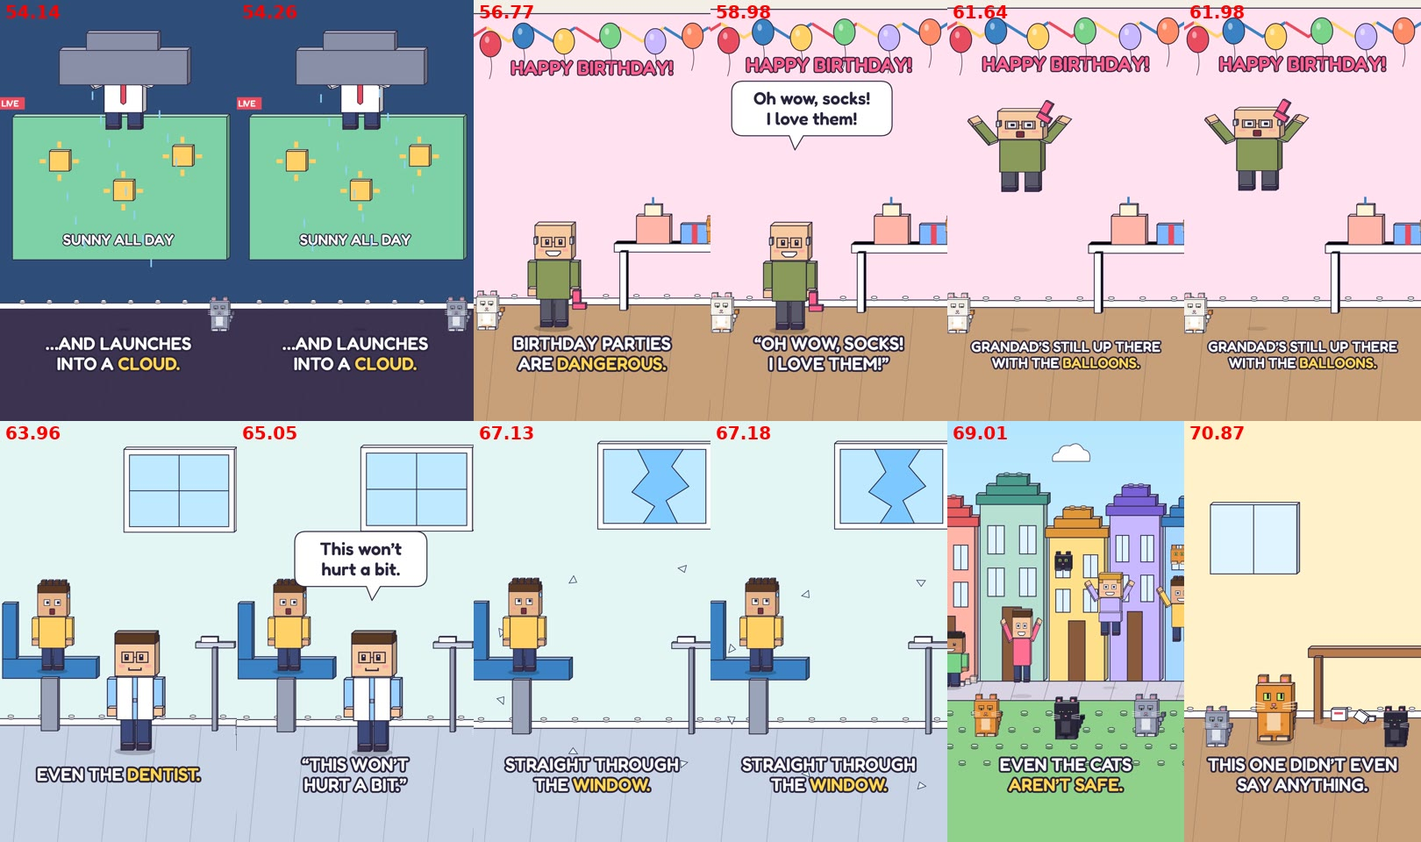
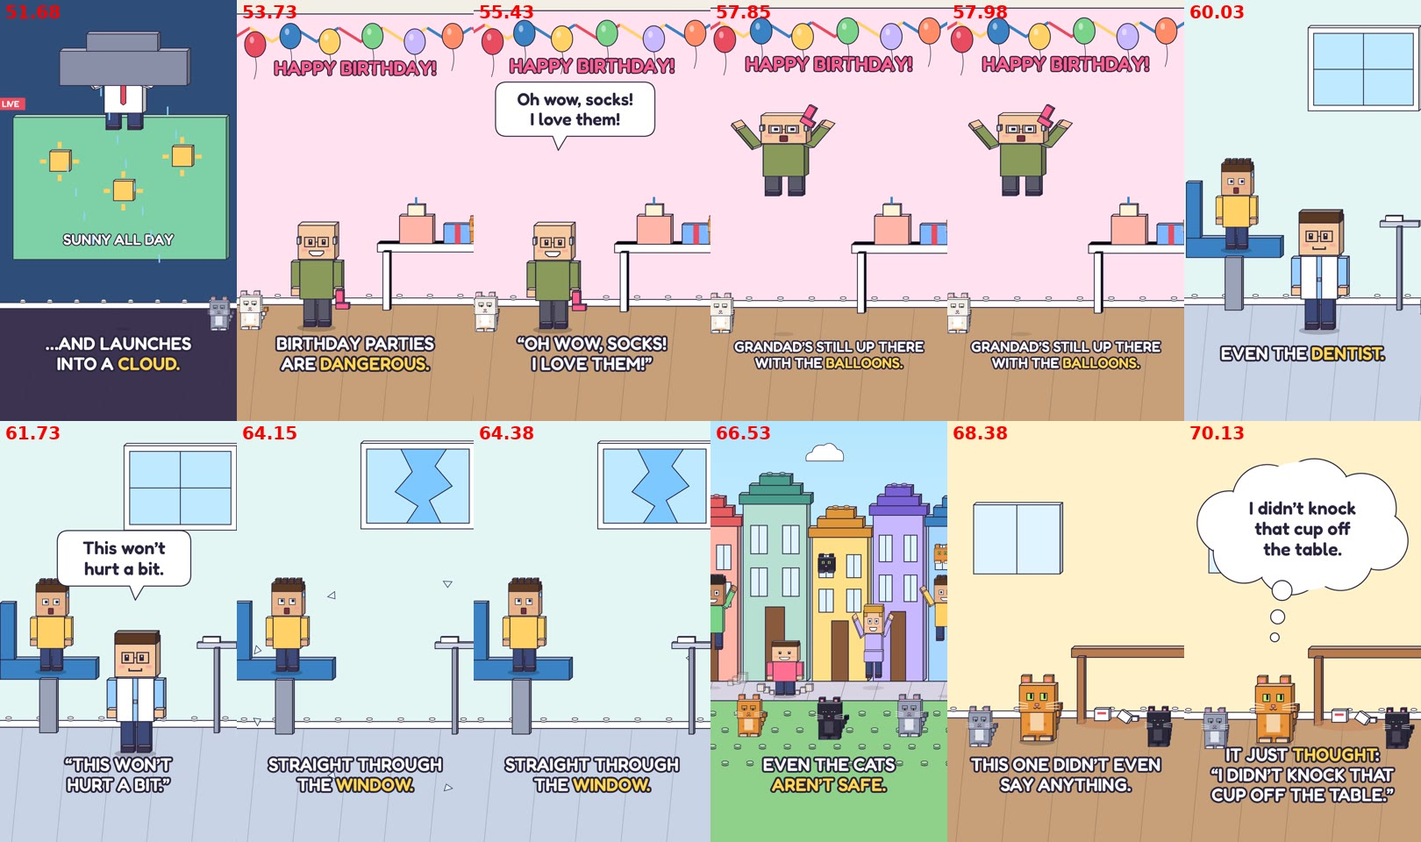
In This Town: funny v4 WIP - thought-lie and extra beats (scenes, timing, script lines)
Claude-Session: https://claude.ai/code/session_015gir5CL569tRAx8n1WvfLa

diff --git a/media/in-this-town/ep-jump-when-lie/funny/body3.js b/media/in-this-town/ep-jump-when-lie/funny/body3.js
@@ -1,0 +1,266 @@
+// v4 beats: thought-lies (T1–T8) and more lies (M1–M8)
+Object.assign(CAPS, {
+  n39: 'AND IT’S NOT|JUST CATS.', n40: 'EVEN YOUR <tspan fill="#ffd54d">THOUGHTS</tspan>|CAN GET YOU.', n41: 'AT THE GYM.|HE THINKS:', n42: '“I’LL DEFINITELY COME|BACK TOMORROW.”', n43: '<tspan fill="#ffd54d">DUMBBELL</tspan> AND ALL.',
+  n44: 'GROUP PHOTO. EVERYONE|SMILES AND THINKS:', n45: '“I LOOK GREAT|IN THIS ONE.”', n46: 'THE PHOTO IS|JUST <tspan fill="#ffd54d">FEET.</tspan>',
+  n47: 'THE BABY THINKS:', n48: '“I’M NOT THE ONE WHO|MADE THAT SMELL.”', n49: '<tspan fill="#ffd54d">NAPPY</tspan> AND ALL.',
+  n50: 'THE KID AT THE TABLE|THINKS:', n51: '“I’M NOT EVEN HUNGRY|FOR DESSERT.”', n52: 'FACE-FIRST|IN THE <tspan fill="#ffd54d">CAKE.</tspan>',
+  n53: 'THE TEACHER THINKS:', n54: '“I LOVE MY JOB|ON MONDAYS.”', n55: 'THROUGH THE|<tspan fill="#ffd54d">SCHOOL ROOF.</tspan>',
+  n56: 'THE DOG THINKS:', n57: '“I’M A GOOD BOY.”', n58: '…NO JUMP.|HE REALLY <tspan fill="#ffd54d">IS.</tspan>',
+  n59: 'AND ME? I THOUGHT:', n60: '“THIS TOWN IS|TOTALLY <tspan fill="#ffd54d">NORMAL.</tspan>”',
+  n61: 'THE SUPERMARKET.', n62: '“JUST LOOKING,|THANKS.”', n63: 'STRAIGHT INTO THE|<tspan fill="#ffd54d">CEREAL AISLE.</tspan>',
+  n64: 'THE BARBER HOLDS|UP THE MIRROR.', n65: '“PERFECT,|THANK YOU!”', n66: '<tspan fill="#ffd54d">HAIR</tspan> AND ALL.',
+  n67: 'ONLINE SHOPPING.', n68: '“THIS WILL|DEFINITELY FIT.”', n69: 'THE <tspan fill="#ffd54d">PARCEL</tspan>|JUMPS TOO.',
+  n70: 'A FOOTBALL MATCH.|THE PLAYER FALLS OVER:', n71: '“HE TOUCHED ME!”', n72: 'THE <tspan fill="#ffd54d">REFEREE</tspan>|JUMPS TOO:', n73: '“I SAW EVERYTHING.”',
+  n74: 'SLEEPOVER.', n75: '“I’M NOT SCARED|AT ALL.”', n76: 'CEILING. <tspan fill="#ffd54d">AGAIN.</tspan>',
+  n77: 'THE ANNUAL|<tspan fill="#ffd54d">TRUTH DAY</tspan> PARADE…', n78: '…IS A|<tspan fill="#ffd54d">TRAMPOLINE SHOW.</tspan>',
+  n79: 'THE SIGN SAYS:|“QUIET PLEASE.”', n80: 'THE LIBRARIAN THINKS:|“NOBODY BORROWS|THE FUN BOOKS.”', n81: 'NOTHING HAPPENS.', n82: 'THE KITTY THINKS:|“I’M NOT GOING TO|KNOCK THESE OFF.”', n83: '<tspan fill="#ffd54d">BOOKS</tspan> EVERYWHERE.',
+  n84: 'GRANDAD AT|THE BARBECUE:', n85: '“IT’S NOT BURNT,|IT’S CRISPY.”', n86: '<tspan fill="#ffd54d">SAUSAGE</tspan> AND ALL.',
+});
+// thought bubble: puffy cloud + little bubbles down to the thinker's head
+function THINK(cx, cy, txt, t, ta, hx, hy, size = 54) {
+  if (t < ta) return '';
+  const k = pop(t, ta, 0.2), lines = txt.split('|'), w = Math.max(...lines.map((l) => l.length)) * size * 0.3 + 70, h = lines.length * size * 0.62 + 50;
+  let g = `<g transform="translate(${cx},${cy}) scale(${n(k)})">`;
+  const P = []; for (let i = 0; i < 10; i++) { const a = (i / 10) * 2 * PI; P.push([Math.cos(a) * w, Math.sin(a) * h, Math.min(w, h) * 0.62]); }
+  for (const [x, y, r] of P) g += `<circle cx="${n(x)}" cy="${n(y)}" r="${n(r)}" fill="#fff" stroke="${OUT}" stroke-width="${LW}"/>`;
+  for (const [x, y, r] of P) g += `<circle cx="${n(x)}" cy="${n(y)}" r="${n(r - 4)}" fill="#fff"/>`;
+  g += `<ellipse cx="0" cy="0" rx="${n(w + 10)}" ry="${n(h + 10)}" fill="#fff"/>`;
+  lines.forEach((l, i) => { g += T(0, (i - (lines.length - 1) / 2) * size * 1.12 + size * 0.35, l, size, OUT, { flat: 1 }); });
+  g += `</g>`;
+  for (let i = 1; i <= 3; i++) { const u = i / 4, x = lerp(cx, hx, 0.35 + u * 0.6), y = lerp(cy + h * 0.9, hy, 0.35 + u * 0.6); g += `<circle cx="${n(x)}" cy="${n(y)}" r="${n((28 - i * 6) * k)}" fill="#fff" stroke="${OUT}" stroke-width="${LW}"/>`; }
+  return g;
+}
+const inT = (t, a, b) => t > a && t < b;
+const BOOK = (x, y, c, h = 70) => BLK(x, y - h, x + 24, y, c, 6);
+Object.assign(SC, {
+  thoughts(t) {
+    let g = STREET(t);
+    [200, 880].forEach((x, i) => { g += PERSON(x, GROUND + 20, 0.62, Object.assign({ mouth: 'worry', look: [0, -0.8], ph: i }, TOWN[i]), t); });
+    g += CAT(540, GROUND + 200, 1.0, t, MEH({ c: 'orange' }));
+    g += THINK(540, 640, '?!', t, s_('n40') + 0.3, 540, 1000, 120);
+    return g;
+  },
+  gym(t) {
+    let g = ROOM(t, '#e8ecf5', '#5a5a6a');
+    g += BLK(100, 420, 600, 540, '#e94b5f', 10) + T(350, 500, 'GYM', 72, '#fff', { flat: 1 });
+    g += BLK(700, 900, 1000, 960, '#3b3350', 10) + BLK(720, 960, 740, GROUND, '#888', 6) + BLK(960, 960, 980, GROUND, '#888', 6);
+    const j = jumpState('gym', t);
+    g += PERSON(450, GROUND + 70, 1.1, { j, shirt: '#ffd166', pants: '#3b82c4', hair: 'short', hairC: '#3a2a1a', skin: '#e8b48a', mouth: j.air ? 'o' : 'smile', wide: j.air, sweat: 1, look: [0.4, -0.3] }, t);
+    // the dumbbell goes up with him
+    const dy = j.dy * 1.1, x0 = 450 + (j.air ? 125 : 85), y0 = GROUND + 70 - dy - (j.air ? 330 : 120) * 1.1;
+    g += BLK(x0 - 50, y0 - 10, x0 + 50, y0 + 10, '#888', 6) + BLK(x0 - 70, y0 - 34, x0 - 44, y0 + 34, '#3b3350', 8) + BLK(x0 + 44, y0 - 34, x0 + 70, y0 + 34, '#3b3350', 8);
+    g += DUST(450, GROUND + 70, t, j.land, 1.1) + CAT(880, 900, 0.5, t, MEH({ c: 'grey', look: [-0.8, j.air ? -1 : 0] }));
+    if (t < JJ('gym').t0 + 0.05) g += THINK(560, 560, 'I’ll definitely come|back tomorrow.', t, s_('n42') - 0.05, 470, 880);
+    return g;
+  },
+  photo(t) {
+    if (t > s_('n46') - 0.05) {
+      // the photo: just feet at the top edge
+      let g = ROOM(t, '#2b2540', '#2b2540');
+      const k = pop(t, s_('n46') - 0.05, 0.2);
+      g += `<g transform="translate(540,800) rotate(-4) scale(${n(k)})"><rect x="-380" y="-420" width="760" height="760" fill="#fff" stroke="${OUT}" stroke-width="5"/><rect x="-340" y="-380" width="680" height="560" fill="#bfe9ff"/>`;
+      g += `<rect x="-340" y="80" width="680" height="100" fill="#8fd18b"/>`;
+      for (const x of [-220, 0, 220]) g += BLK(x - 50, -380, x - 10, -330, '#3b3350', 6) + BLK(x + 10, -380, x + 50, -330, '#3b3350', 6);
+      g += CAT(180, 170, 0.5, t, MEH({ c: 'orange' })) + T(0, 300, 'Family 2026', 54, OUT, { flat: 1 }) + `</g>`;
+      return g;
+    }
+    let g = STREET(t);
+    g += BLK(520, 1300, 560, 1500, '#555', 6) + BLK(470, 1220, 610, 1300, '#3b3350', 10) + `<circle cx="540" cy="1260" r="26" fill="#7fb8ff" stroke="${OUT}" stroke-width="3"/>`;
+    ['p0', 'p1', 'p2'].forEach((k, i) => { g += JP(k, 300 + i * 240, GROUND + 20, 0.8, Object.assign({ mouth: 'grin', airMouth: 'o' }, TOWN[i + 1]), t); });
+    g += CAT(160, GROUND + 30, 0.5, t, MEH({ c: 'black' })) + CAT(930, GROUND + 30, 0.5, t, MEH({ c: 'grey' }));
+    if (t < JJ('p0').t0 + 0.05) g += THINK(540, 520, 'I look great|in this one.', t, s_('n45') - 0.05, 540, 820);
+    return g;
+  },
+  baby(t) {
+    let g = ROOM(t, '#fff1f8', '#c7a07a');
+    const j = jumpState('baby', t);
+    g += PERSON(540, 1180, 0.72, { j, shirt: '#ffffff', pants: '#ffffff', sleeve: '#f6c9a0', hair: 'bald', hairC: '#f6c9a0', mouth: j.air ? 'o' : 'smile', wide: j.air, look: [0, 0] }, t);
+    // crib bars in front
+    g += BLK(260, 1180, 820, 1220, '#ffd166', 12);
+    for (let x = 280; x <= 800; x += 74) g += BLK(x, 1040, x + 14, 1180, '#ffd166', 4);
+    g += BLK(260, 1020, 820, 1044, '#ffd166', 8) + BLK(260, 1220, 290, GROUND, '#ffd166', 6) + BLK(790, 1220, 820, GROUND, '#ffd166', 6);
+    for (let k = 0; k < 3; k++) { const a = (t * 0.8 + k / 3) % 1; g += `<path d="M ${n(640 + k * 30)} ${n(1150 - a * 200)} q 12 -20 0 -40 q -12 -20 0 -40" stroke="#9bc53d" stroke-width="5" fill="none" opacity="${n(1 - a)}"/>`; }
+    g += CAT(150, GROUND + 70, 0.55, t, MEH({ c: 'calico', look: [0.8, 0] })) + CAT(940, GROUND + 70, 0.55, t, MEH({ c: 'white', look: [-0.8, j.air ? -1 : 0] }));
+    if (t < JJ('baby').t0 + 0.05) g += THINK(540, 560, 'I’m not the one who|made that smell.', t, s_('n48') - 0.05, 540, 880, 50);
+    return g;
+  },
+  dessert(t) {
+    const jd = JJ('dessert'), landed = t > jd.t0 + jd.dur;
+    let g = ROOM(t, '#ffe9c7', '#c7a07a');
+    g += TABLE(380, 1040, 1100, '#fff');
+    // the cake
+    g += BLK(660, 980, 900, 1100, '#ffb5a7', 12) + BLK(660, 960, 900, 990, '#fff', 12);
+    const j = jumpState('dessert', t), u = j.air ? cl((t - jd.t0) / jd.dur) : landed ? 1 : 0;
+    if (!landed) g += PERSON(lerp(330, 760, u), GROUND + 70 - u * 230, 1.0, { j, shirt: '#7fb8ff', hair: 'bowl', hairC: '#4a2f1c', mouth: j.air ? 'o' : 'smile', wide: j.air, look: [0.6, 0] }, t);
+    else {
+      // upside down, face in the cake, legs kicking
+      const kick = Math.sin(t * 14) * 6;
+      g += `<g transform="translate(780,${n(1000 + kick * 0.3)}) rotate(180)">` + PERSON(0, 400, 0.9, { shirt: '#7fb8ff', hair: 'bowl', hairC: '#4a2f1c' }, t) + `</g>`;
+      g += BLK(640, 960, 920, 1000, '#fff', 8);
+      for (let k = 0; k < 6; k++) { const a = t - jd.t0 - jd.dur; g += `<circle cx="${n(780 + Math.cos(k) * (60 + a * 200))}" cy="${n(960 - Math.sin(k + 1) * 40 - a * 80 + a * a * 300)}" r="12" fill="#fff" stroke="${OUT}" stroke-width="2"/>`; }
+    }
+    g += CAT(200, 1100, 0.5, t, MEH({ c: 'orange', look: [0.8, 0] }));
+    if (t < jd.t0 + 0.05) g += THINK(500, 560, 'I’m not even hungry|for dessert.', t, s_('n51') - 0.05, 380, 860, 50);
+    return g;
+  },
+  teacher2(t) {
+    const CEIL = 300, jt = JJ('teacher2'), gone = t > jt.t0 + 0.3;
+    let g = ROOM(t, '#fff1c9', '#d8a36f', { ceil: CEIL });
+    g += BLK(110, 500, 970, 820, '#2f5d50', 10) + T(540, 640, 'MONDAY', 90, '#fff', { flat: 1 }) + T(540, 740, '8:00 AM', 56, '#fff', { flat: 1 });
+    const j = jumpState('teacher2', t);
+    g += PERSON(540, GROUND + 60, 1.05, { j, shirt: '#e94b5f', dress: 1, hair: 'bun', hairC: '#5a3a22', glasses: 1, mouth: j.air ? 'o' : 'smile', wide: j.air, sweat: 1 }, t);
+    g += `<rect x="0" y="0" width="1080" height="${CEIL}" fill="#f4efe6" stroke="${OUT}" stroke-width="${LW}"/>`;
+    if (gone) g += `<path d="M 460 ${CEIL} L 480 ${CEIL - 70} L 520 ${CEIL - 40} L 560 ${CEIL - 90} L 600 ${CEIL - 50} L 630 ${CEIL} Z" fill="#7cc8ff"/>`;
+    g += CAT(200, GROUND + 60, 0.5, t, MEH({ c: 'black', look: [0.6, gone ? -1 : 0] }));
+    if (t < jt.t0 + 0.05) g += THINK(540, 560, 'I love my job|on Mondays.', t, s_('n54') - 0.05, 540, 870);
+    return g;
+  },
+  gooddog(t) {
+    let g = STREET(t);
+    g += DOG(540, GROUND + 160, 1.4, t, {});
+    const ann = t > s_('n58') - 0.1;
+    g += CAT(180, GROUND + 160, 0.6, t, { c: 'orange', meh: 1, brow: ann, look: [0.8, 0] }) + CAT(900, GROUND + 160, 0.6, t, { c: 'grey', meh: 1, look: [-0.8, 0] });
+    if (ann) for (let k = 0; k < 4; k++) { const a = (t * 0.7 + k / 4) % 1; g += `<g transform="translate(${n(560 + Math.sin(k * 2) * 120)},${n(1080 - a * 300)}) scale(${n(0.8 + a * 0.4)})" opacity="${n(1 - a)}">` + BLK(-14, -10, 0, 4, '#ff5f8f', 4) + BLK(0, -10, 14, 4, '#ff5f8f', 4) + BLK(-8, 4, 8, 14, '#ff5f8f', 4) + `</g>`; }
+    if (t < s_('n58') + 0.4) g += THINK(560, 640, 'I’m a good boy.', t, s_('n57') - 0.05, 640, 1000, 60);
+    if (ann) g += T(540, 640, 'NO BOING.', 90, '#7bd389', { sw: 12 });
+    return g;
+  },
+  me(t) {
+    // the narrator launches; the camera follows him up
+    const jm = JJ('me'), j = jumpState('me', t), cam = Math.min(j.dy * 1.0, 2600);
+    let g = `<rect x="0" y="-4000" width="1080" height="6000" fill="#7cc8ff"/>`;
+    g += `<g transform="translate(0,${n(cam)})">` + STREET(t);
+    g += CAT(250, GROUND + 140, 0.55, t, MEH({ c: 'orange', look: [0.3, -1] })) + CAT(820, GROUND + 140, 0.55, t, MEH({ c: 'black', look: [-0.3, -1] }));
+    for (const [x, y] of [[200, -300], [800, -900], [350, -1600], [850, -2200]]) g += `<g transform="translate(${x},${y})">` + BLK(-120, -40, 120, 30, '#ffffff', 16) + `</g>`;
+    g += PERSON(540, GROUND + 80, 1.1, Object.assign({}, ME, { j, mouth: j.air ? 'o' : 'smile', wide: j.air, look: [0, -0.2] }), t);
+    g += `</g>`;
+    if (t < jm.t0 + 0.05) g += THINK(540, 560, 'This town is|totally normal.', t, s_('n60') - 0.05, 540, 880);
+    return g;
+  },
+  market(t) {
+    const jk = JJ('market');
+    let g = ROOM(t, '#f2f7ff', '#d9d4e3');
+    g += BLK(120, 380, 520, 480, '#4cc38a', 10) + T(320, 450, 'CEREAL', 56, '#fff', { flat: 1 });
+    // shelves of cereal boxes
+    for (let r = 0; r < 3; r++) { g += BLK(600, 640 + r * 220, 1040, 660 + r * 220, '#9aa3b8', 8); for (let x = 610; x < 1020; x += 64) g += BLK(x, 520 + r * 220, x + 52, 640 + r * 220, ['#e94b5f', '#ffd166', '#3b82c4', '#7bd389'][(x / 64 + r) % 4 | 0], 6); }
+    const j = jumpState('market', t, 520);
+    const u = j.air ? cl((t - jk.t0) / 0.5) : 0, stuck = j.flat;
+    g += PERSON(lerp(380, 800, u), GROUND + 70, 1.05, { j, shirt: '#ff8c69', hair: 'curly', hairC: '#2f2a24', skin: '#c98d62', mouth: j.air ? 'o' : 'smile', wide: j.air, look: [-0.6, 0] }, t);
+    if (stuck) for (let k = 0; k < 5; k++) { const a = t - jk.t0 - 0.5; if (a > 0) g += `<g transform="translate(${n(700 + k * 60 + a * (k - 2) * 60)},${n(560 + a * a * 900 + a * 300)}) rotate(${n(a * 200 * (k - 2))})">` + BLK(-22, -30, 22, 30, ['#e94b5f', '#ffd166', '#3b82c4'][k % 3], 5) + `</g>`; }
+    g += PERSON(160, GROUND + 70, 0.95, { shirt: '#4cc38a', hair: 'short', hairC: '#7a4a2a', mouth: 'smile', look: [0.8, 0] }, t);
+    g += CAT(500, GROUND + 80, 0.5, t, MEH({ c: 'grey', look: [0.6, stuck ? -1 : 0] }));
+    if (t > s_('n62') - 0.05 && t < jk.t0 + 0.05) g += BUB(380, 600, 'Just looking,|thanks.', t, s_('n62') - 0.05, 0, 64);
+    return g;
+  },
+  barber(t) {
+    const jb = JJ('barber');
+    let g = ROOM(t, '#e8f7ff', '#ffffff');
+    for (let x = 0; x < 1080; x += 90) g += `<rect x="${x}" y="${GROUND - 20}" width="45" height="600" fill="#2b2540" opacity=".85"/>`;
+    g += BLK(560, 400, 960, 820, '#cfd6e6', 12) + `<rect x="580" y="420" width="360" height="380" fill="#dff4ff"/>`;
+    g += BLK(260, 1080, 600, 1140, '#e94b5f', 12) + BLK(260, 880, 300, 1080, '#e94b5f', 8) + BLK(400, 1140, 450, GROUND, '#888', 6);
+    const j = jumpState('barber', t);
+    g += PERSON(430, 1130, 0.9, { j, shirt: '#ffffff', hair: 'bald', hairC: '#f6c9a0', mouth: j.air ? 'o' : 'grin', wide: j.air, look: [0.4, 0] }, t);
+    // the haircut flies higher than him and lands late
+    const hy = 1130 - 0.9 * 380 - (j.air ? j.dy * 1.5 * 0.9 : 0);
+    g += BLK(380, hy - 30, 480, hy, '#ff5f8f', 8) + BLK(400, hy - 60, 420, hy - 30, '#ff5f8f', 5) + BLK(440, hy - 56, 460, hy - 30, '#ff5f8f', 5);
+    g += PERSON(760, GROUND + 80, 1.0, { shirt: '#3b3350', hair: 'spiky', hairC: '#2b2b2b', mouth: 'flat', look: [-0.6, 0] }, t);
+    g += BLK(820, 900, 900, 1000, '#cfd6e6', 6);
+    g += CAT(980, GROUND + 70, 0.5, t, MEH({ c: 'orange', look: [-0.6, j.air ? -1 : 0] }));
+    if (t > s_('n65') - 0.05 && t < jb.t0 + 0.05) g += BUB(420, 600, 'Perfect,|thank you!', t, s_('n65') - 0.05, 0, 64);
+    return g;
+  },
+  parcel(t) {
+    let g = ROOM(t, '#f5ecff', '#c7a07a');
+    const j = jumpState('online', t), jp = jumpState('box', t);
+    g += PERSON(380, GROUND + 70, 1.05, { j, shirt: '#7bd389', hair: 'short', hairC: '#3a2a1a', mouth: j.air ? 'o' : 'smile', wide: j.air, look: [0.8, 0.4] }, t);
+    // a tiny shirt in front of him
+    g += `<g transform="translate(380,${n(GROUND + 70 - j.dy * 1.05 - 200)})">` + BLK(-26, -20, 26, 30, '#ff5f8f', 5) + BLK(-40, -20, -26, 0, '#ff5f8f', 4) + BLK(26, -20, 40, 0, '#ff5f8f', 4) + `</g>`;
+    g += SHADOW(760, GROUND + 70, 0.9, jp.dy) + `<g transform="translate(760,${n(GROUND + 70 - jp.dy)}) scale(${n(jp.sx)},${n(jp.sy)})">` + BLK(-110, -150, 110, 0, '#c99a5b', 16) + `<rect x="-110" y="-90" width="220" height="24" fill="#e0c08a"/>` + T(0, -30, 'SIZE XS', 30, OUT, { flat: 1 }) + `</g>` + DUST(760, GROUND + 70, t, jp.land, 0.9);
+    g += CAT(960, GROUND + 70, 0.5, t, MEH({ c: 'black', look: [-0.8, jp.air ? -1 : 0] }));
+    if (t < JJ('online').t0 + 0.05) g += THINK(540, 560, 'This will|definitely fit.', t, s_('n68') - 0.05, 400, 870);
+    return g;
+  },
+  football(t) {
+    let g = SKY(t, '#9fd8ff', '#e9f8ff');
+    g += `<rect x="0" y="760" width="1080" height="1200" fill="#5fbf5f"/>`; for (let k = 0; k < 6; k++) g += `<rect x="0" y="${760 + k * 160}" width="1080" height="80" fill="#6fcf6f"/>`;
+    g += `<rect x="0" y="560" width="1080" height="200" fill="#d9d4e3"/>` + Array.from({ length: 12 }, (_, i) => `<rect x="${i * 92 + 10}" y="600" width="60" height="60" fill="${['#e94b5f', '#3b82c4', '#ffd166'][i % 3]}"/>`).join('');
+    // the player: lying down, then springs up
+    const jp = jumpState('player', t), down = t > s_('n70') + 0.6 && !jp.air && t < JJ('player').t0;
+    if (down) g += `<g transform="translate(440,${GROUND + 40}) rotate(-90)">` + PERSON(0, 0, 0.9, { shirt: '#e94b5f', hair: 'spiky', hairC: '#3a2a1a', mouth: 'worry', look: [0, -1] }, t) + `</g>`;
+    else g += PERSON(360, GROUND + 70, 0.95, { j: jp, shirt: '#e94b5f', hair: 'spiky', hairC: '#3a2a1a', mouth: jp.air ? 'o' : 'smile', wide: jp.air, look: [0.6, 0] }, t);
+    g += DUST(360, GROUND + 70, t, jp.land, 0.95);
+    const jr = jumpState('ref', t);
+    g += PERSON(780, GROUND + 70, 0.95, { j: jr, shirt: '#2b2540', stripes: '#ffffff', hair: 'short', hairC: '#888', mouth: jr.air ? 'o' : 'flat', wide: jr.air, look: [-0.6, 0] }, t) + DUST(780, GROUND + 70, t, jr.land, 0.95);
+    g += BLK(560, GROUND + 60, 620, GROUND + 120, '#ffffff', 8);
+    g += CAT(120, GROUND + 230, 0.55, t, MEH({ c: 'orange', look: [0.5, 0] })) + CAT(980, GROUND + 230, 0.55, t, MEH({ c: 'grey', look: [-0.5, 0] }));
+    if (t > s_('n71') - 0.05 && t < JJ('player').t0 + 0.05) g += BUB(380, 700, 'He touched me!', t, s_('n71') - 0.05, 0, 62);
+    if (t > s_('n73') - 0.05 && t < JJ('ref').t0 + 0.05) g += BUB(700, 700, 'I saw everything.', t, s_('n73') - 0.05, 80, 60);
+    return g;
+  },
+  sleepover(t) {
+    const CEIL = 300;
+    let g = ROOM(t, '#2f3a6a', '#4a3a6a', { ceil: CEIL });
+    g += `<rect x="0" y="0" width="1080" height="${CEIL}" fill="#3b4570" stroke="${OUT}" stroke-width="${LW}"/>`;
+    for (const x of [200, 380, 760, 880]) g += `<path d="M ${x} ${CEIL} l 20 -40 l 20 30 l 20 -40" stroke="#bbb" stroke-width="4" fill="none"/>`;
+    const j = jumpState('sleep', t, 560);
+    g += `<path d="M 540 ${GROUND - 40} L 900 520 L 1000 560 Z" fill="#fff6a8" opacity=".25"/>`;
+    g += PERSON(540, GROUND + 60, 1.0, { j, shirt: '#9ad0ff', stripes: '#fff', hair: 'bowl', hairC: '#4a2f1c', mouth: j.air ? 'o' : 'smile', wide: 1, sweat: 1, stars: j.flat }, t);
+    g += BLK(380, 1220, 700, GROUND + 60, '#7a62d6', 12);
+    g += CAT(220, GROUND + 60, 0.55, t, { c: 'black', meh: 1, look: [0.6, 0] }) + CAT(880, GROUND + 60, 0.55, t, { c: 'white', sleep: 1 });
+    if (t < JJ('sleep').t0 + 0.05) g += THINK(540, 600, 'I’m not scared|at all.', t, s_('n75') - 0.05, 540, 900);
+    return g;
+  },
+  parade(t) {
+    let g = STREET(t, { noWinCats: 0 });
+    g += `<path d="M 60 560 Q 540 640 1020 560" stroke="${OUT}" stroke-width="3" fill="none"/>` + BLK(240, 470, 840, 570, '#ff5f8f', 12) + T(540, 545, 'TRUTH DAY', 76, '#fff', { flat: 1 });
+    for (const [x, y, c] of [[110, 700, 'grey'], [760, 700, 'orange'], [980, 720, 'black']]) g += CAT(x, y, 0.45, t, MEH({ c, look: [0, 1] }));
+    for (let i = 0; i < 5; i++) {
+      const x = 110 + i * 215, ph = i * 0.37, c = (t * 1.6 + ph) % 1, dy = 4 * 380 * c * (1 - c);
+      g += BLK(x - 80, GROUND + 50, x + 80, GROUND + 70, '#3b82c4', 10);
+      g += PERSON(x, GROUND + 40, 0.58, Object.assign({ j: { dy, sx: 1, sy: 1 + 0.15 * Math.abs(1 - 2 * c), air: c > 0.08 && c < 0.92 }, mouth: 'grin', airMouth: 'grin' }, TOWN[i % 4]), t);
+    }
+    return g;
+  },
+  library(t) {
+    const jk = JJ('libcat'), fall = t > jk.t0;
+    let g = ROOM(t, '#f3e7d3', '#a5784f');
+    g += BLK(120, 400, 520, 500, '#2b2540', 10) + T(320, 468, 'QUIET PLEASE', 44, '#fff', { flat: 1 });
+    // bookshelf
+    g += BLK(620, 520, 1040, GROUND, '#8a5a3c', 14);
+    const cols = ['#e94b5f', '#3b82c4', '#ffd166', '#7bd389', '#c9b8ff'];
+    for (let r = 0; r < 3; r++) for (let x = 640; x < 1010; x += 30) { const c = cols[(x / 30 + r) % 5 | 0]; if (r === 0 && fall) continue; g += BOOK(x, 760 + r * 190, c); }
+    if (fall) for (let k = 0; k < 10; k++) { const a = t - jk.t0; g += `<g transform="translate(${n(660 + k * 36 + a * (k - 5) * 50)},${n(Math.min(GROUND + 40, 720 + a * a * 1400))}) rotate(${n(a * (k - 5) * 120)})">` + BOOK(-12, 35, cols[k % 5]) + `</g>`; }
+    // the kitty on the top shelf
+    const j = jumpState('libcat', t);
+    g += `<g transform="translate(830,${n(520 - j.dy)}) scale(${n(j.sx)},${n(j.sy)})">` + CAT(0, 0, 0.55, t, { c: 'orange', look: j.air ? [0, -1] : [-0.6, -0.4] }) + `</g>` + DUST(830, 520, t, j.land, 0.55);
+    g += PERSON(330, GROUND + 70, 1.05, { shirt: '#9b6a45', hair: 'bun', hairC: '#888', glasses: 1, mouth: 'flat', look: [0.6, -0.3] }, t);
+    g += CAT(130, GROUND + 70, 0.5, t, MEH({ c: 'grey', look: [0.8, fall ? -1 : 0] }));
+    if (inT(t, s_('n80') + 0.6, s_('n81') + 0.6)) g += THINK(450, 620, 'Nobody ever borrows|the fun books.', t, s_('n80') + 0.6, 330, 880, 48);
+    if (inT(t, s_('n81'), e_('n81') + 0.3)) g += T(330, 820, '…', 110, OUT, { flat: 1 });
+    if (inT(t, s_('n82') + 0.9, jk.t0 + 0.05)) g += THINK(560, 440, 'I’m not going to|knock these off.', t, s_('n82') + 0.9, 820, 300, 48);
+    return g;
+  },
+  bbq(t) {
+    let g = SKY(t);
+    g += `<rect x="0" y="${GROUND - 40}" width="1080" height="1920" fill="#8fd18b"/>`;
+    for (let x = 0; x < 1080; x += 60) g += BLK(x, 800, x + 40, GROUND - 40, '#c99a5b', 6);
+    // grill + burnt sausages
+    g += BLK(560, 1000, 940, 1060, '#3b3350', 12) + BLK(600, 1060, 630, GROUND, '#555', 6) + BLK(870, 1060, 900, GROUND, '#555', 6);
+    for (let k = 0; k < 3; k++) { const a = (t * 0.6 + k / 3) % 1; g += `<circle cx="${n(720 + k * 40 + Math.sin(a * 6) * 14)}" cy="${n(980 - a * 260)}" r="${n(18 + a * 30)}" fill="#6a6a7a" opacity="${n(0.5 * (1 - a))}"/>`; }
+    const j = jumpState('bbq', t);
+    for (let k = 0; k < 3; k++) g += BLK(620 + k * 100, 976, 700 + k * 100, 998, '#2a2222', 6);
+    // the sausage he is holding up flies even higher
+    const sy = 760 - (j.air ? j.dy * 1.7 : 0);
+    g += `<g transform="translate(480,${n(sy)}) rotate(${j.air ? n(t * 600) : 0})">` + BLK(-40, -11, 40, 11, '#2a2222', 6) + `</g>`;
+    g += PERSON(380, GROUND + 60, 1.05, { j, shirt: '#8a9a5b', apron: 1, chef: 1, hair: 'bald', hairC: '#cfcfcf', glasses: 1, mouth: j.air ? 'o' : 'grin', wide: j.air, look: [0.6, 0] }, t);
+    g += DUST(380, GROUND + 60, t, j.land, 1.05) + CAT(960, GROUND + 70, 0.55, t, MEH({ c: 'orange', look: [-0.6, j.air ? -1 : 0] }));
+    if (t > s_('n85') - 0.05 && t < JJ('bbq').t0 + 0.05) g += BUB(420, 600, 'It’s not burnt,|it’s crispy.', t, s_('n85') - 0.05, 0, 64);
+    return g;
+  },
+});
+// shots and cameras for the new beats
+CUTS.push(['thoughts', s_('n39') - 0.05], ['gym', s_('n41') - 0.05], ['photo', s_('n44') - 0.05], ['baby', s_('n47') - 0.05], ['dessert', s_('n50') - 0.05], ['teacher2', s_('n53') - 0.05],
+  ['gooddog', s_('n56') - 0.05], ['me', s_('n59') - 0.05], ['market', s_('n61') - 0.05], ['barber', s_('n64') - 0.05], ['parcel', s_('n67') - 0.05], ['football', s_('n70') - 0.05],
+  ['sleepover', s_('n74') - 0.05], ['parade', s_('n77') - 0.05], ['library', s_('n79') - 0.05], ['bbq', s_('n84') - 0.05]);
+CUTS.sort((a, b) => a[1] - b[1]);
+Object.assign(CAM, { thoughts: [1.2, 540, 1080], gym: [1.3, 540, 1000], photo: [1.25, 540, 1080], baby: [1.3, 540, 1000], dessert: [1.3, 560, 1000], teacher2: [1.3, 540, 1000], gooddog: [1.2, 540, 1100], me: [1.2, 540, 1040], market: [1.3, 560, 1000], barber: [1.3, 560, 1000], parcel: [1.3, 560, 1000], football: [1.25, 560, 1060], sleepover: [1.3, 540, 1000], parade: [1.15, 540, 1060], library: [1.25, 560, 980], bbq: [1.25, 560, 1000] });

diff --git a/media/in-this-town/ep-jump-when-lie/funny/timing.js b/media/in-this-town/ep-jump-when-lie/funny/timing.js
@@ -20,6 +20,19 @@ function TIMING(V) {
   add('weather', e('n15') + 0.3, 99, 0);
   ['c0', 'c1', 'c2', 'c3'].forEach((k, i) => { for (let t = s('n17') - 0.1 + i * 0.2; t < e('n17') + 0.3; t += 0.85 + i * 0.05) add(k, t, 0.65, 260 + i * 30, 0); });
   add('kitty', e('n19') + 0.45, 1.0, 700);
+  add('gym', e('n42') + 0.3, 0.9, 420);
+  add('p0', e('n45') + 0.3, 1.0, 1100); add('p1', e('n45') + 0.45, 1.0, 1100); add('p2', e('n45') + 0.6, 1.0, 1100);
+  add('baby', e('n48') + 0.3, 0.8, 380);
+  add('dessert', e('n51') + 0.3, 0.9, 300);
+  add('teacher2', e('n54') + 0.3, 99, 0);
+  add('me', e('n60') + 0.3, 99, 0);
+  add('market', e('n62') + 0.3, 99, 0);
+  add('barber', e('n65') + 0.3, 1.0, 400);
+  add('online', e('n68') + 0.3, 0.85, 400); add('box', s('n69') + 0.4, 0.8, 320);
+  add('player', e('n71') + 0.3, 0.9, 500); add('ref', e('n73') + 0.3, 0.9, 450);
+  add('sleep', e('n75') + 0.3, 99, 0);
+  add('libcat', e('n82') + 0.3, 0.9, 350);
+  add('bbq', e('n85') + 0.3, 0.9, 420);
   add('mum', e('n21') + 0.3, 99, 0);
   for (let t = s('n23') - 0.3; t < e('n24') + 2.4; t += 1.2) add('end', t, 0.8, 220, 0);
   const S = [];
@@ -34,6 +47,13 @@ function TIMING(V) {
   sfxAt('bonk', J.find((j) => j.k === 'weather').t0 + 0.55, 0.6);
   sfxAt('whoosh', J.find((j) => j.k === 'mum').t0 + 0.05, 0.6);
   sfxAt('thud', s('n22') + 0.1, 0.6);
+  for (let x = s('n77'); x < e('n78') + 0.2; x += 0.45) S.push(['boing', x, 0.25]);
+  sfxAt('bonk', J.find((j) => j.k === 'sleep').t0 + 0.3, 0.7);
+  sfxAt('whoosh', J.find((j) => j.k === 'me').t0 + 0.05, 0.6);
+  sfxAt('whoosh', J.find((j) => j.k === 'teacher2').t0 + 0.05, 0.5);
+  sfxAt('crash', J.find((j) => j.k === 'teacher2').t0 + 0.3, 0.5);
+  sfxAt('thud', J.find((j) => j.k === 'market').t0 + 0.5, 0.6);
+  sfxAt('thud', s('n83') + 0.05, 0.6);
   sfxAt('crash', J.find((j) => j.k === 'dentist').t0 + 0.42, 0.8);
   sfxAt('bonk', J.find((j) => j.k === 'diner').t0 + 0.35, 0.5);
   return { J, S };

diff --git a/media/in-this-town/ep-jump-when-lie/funny/page.html b/media/in-this-town/ep-jump-when-lie/funny/page.html
@@ -7,5 +7,5 @@ svg{display:block;width:1080px;height:1920px}
 text{font-family:Fredoka,'DejaVu Sans',sans-serif;font-weight:600}
 </style></head><body>
 <svg id="s" viewBox="0 0 1080 1920" xmlns="http://www.w3.org/2000/svg"></svg>
-<script src="data.js"></script><script src="cat.js"></script><script src="timing.js"></script><script src="head.js"></script><script src="body.js"></script><script src="body2.js"></script><script src="blocky.js"></script>
+<script src="data.js"></script><script src="cat.js"></script><script src="timing.js"></script><script src="head.js"></script><script src="body.js"></script><script src="body2.js"></script><script src="body3.js"></script><script src="blocky.js"></script>
 </body></html>
